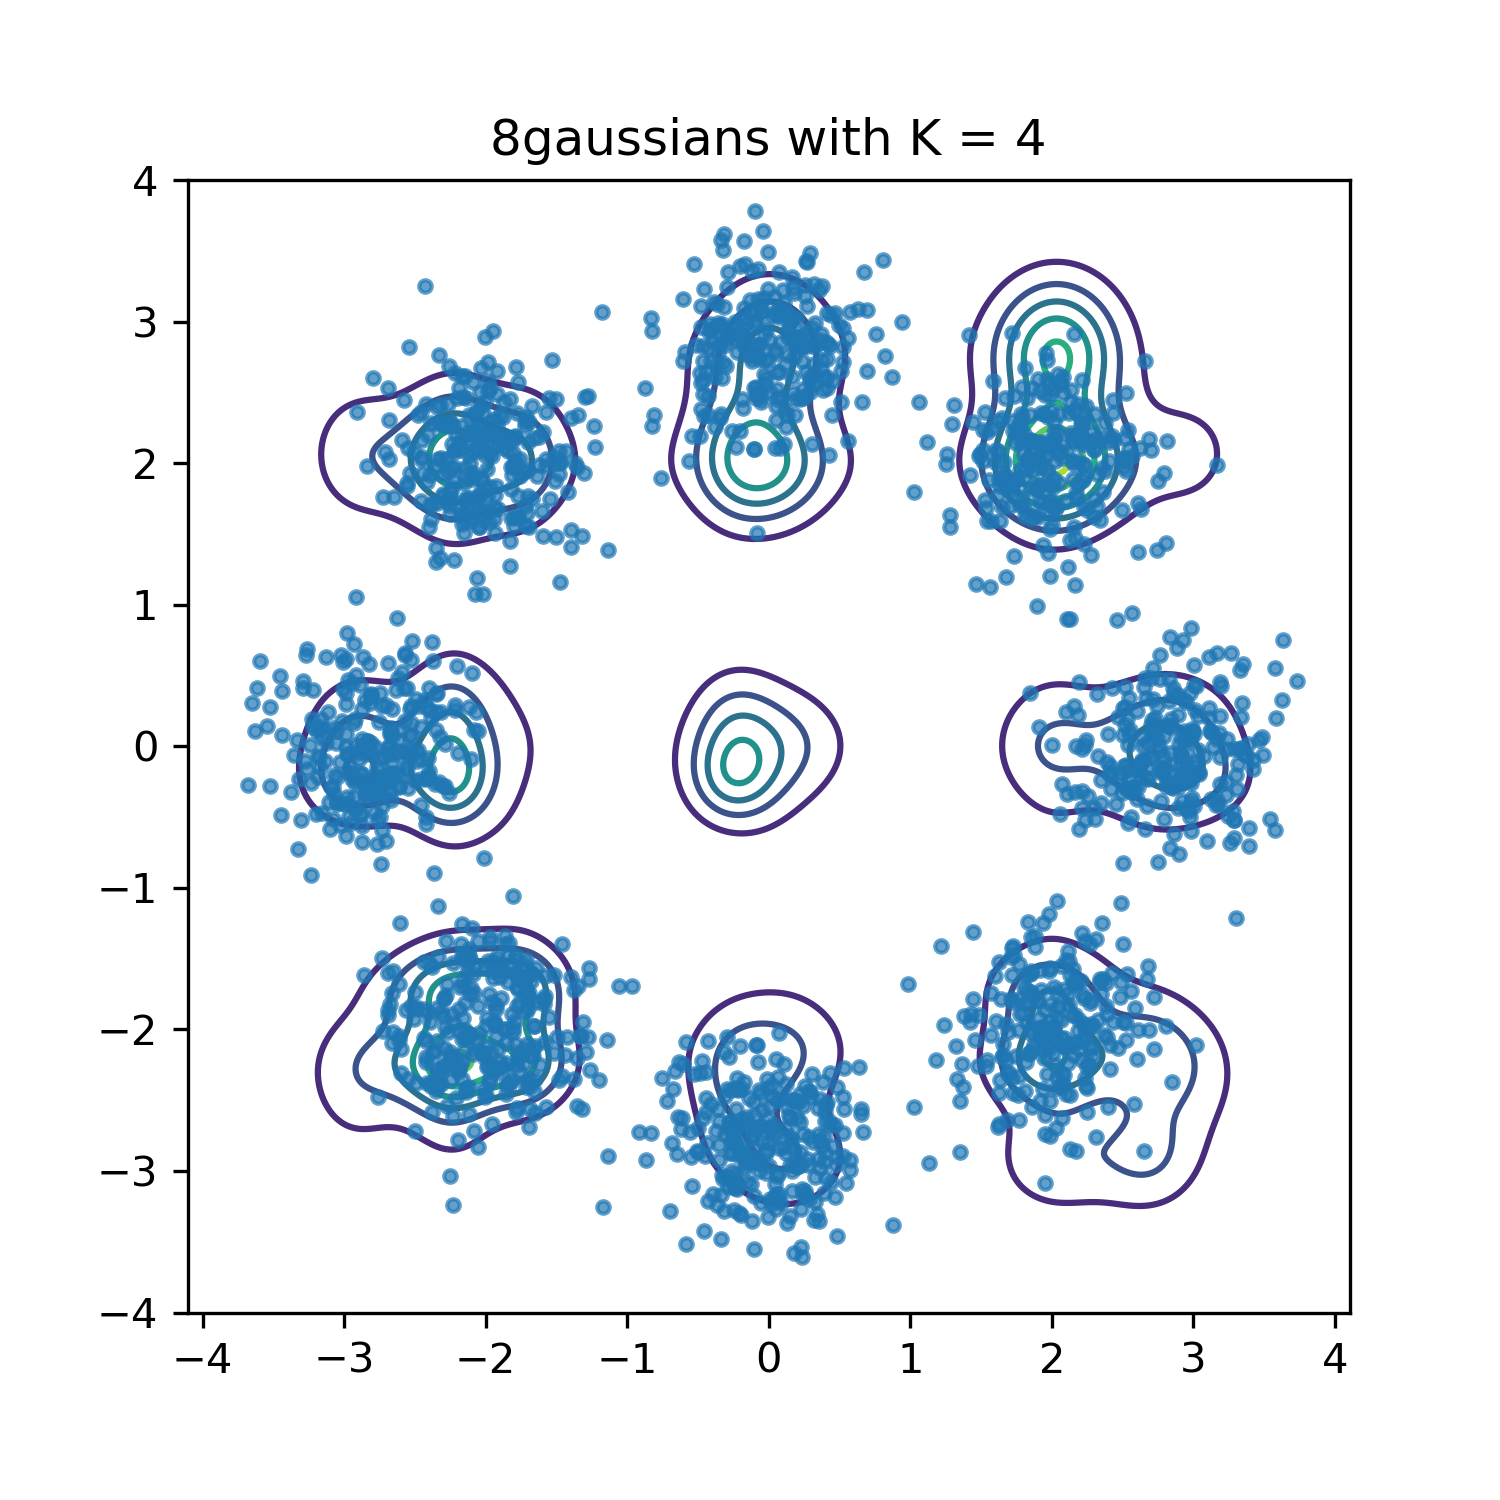
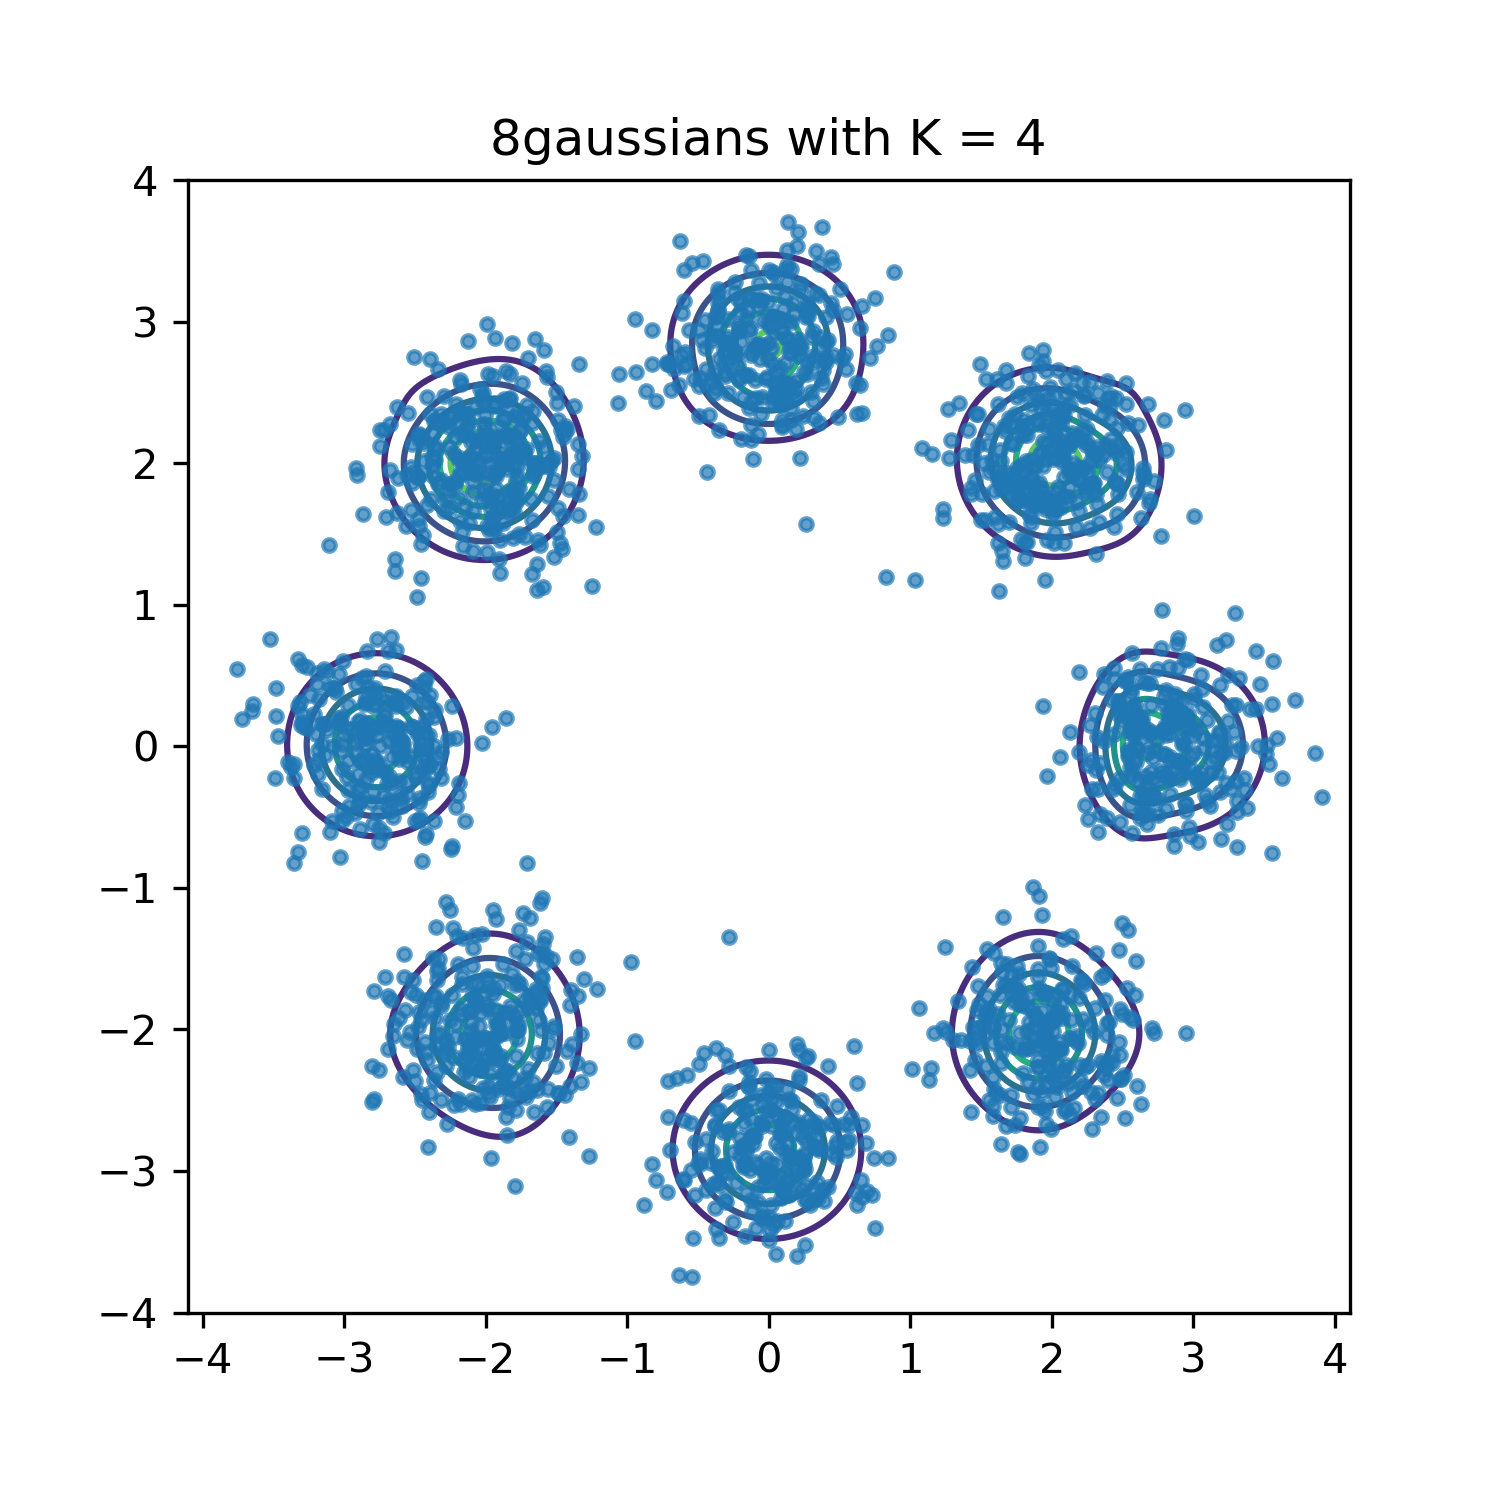
Updated figures

diff --git a/notebooks/CP_gmm.py b/notebooks/CP_gmm.py
@@ -1,129 +1,71 @@
-import sys, os
+import sys
 sys.path.append('../')
 import numpy as np
 import matplotlib.pyplot as plt
-import scipy
 import tensorflow as tf
 import tensorflow_probability as tfp
-from sklearn.cluster import KMeans
 import utils as utl
+import time
 tfd = tfp.distributions
 tfm = tf.math
 import data as d
+import models as m
+from tqdm import tqdm
 
-def create_cluster_distributions(means, covs, nc, nf, gpd):
-  clusters = []
-  for i in range(nc):
-    dim_mixtures = []
-    for j in range(nf):
-      components = []
-      for k in range(gpd):
-        components.append(
-          tfd.Normal(
-            means[k][i][j], 
-            np.sqrt(covs[k][i][j])
-          )
-        )
-      # Add components to the jth dimension mixture
-      dim_mixtures.append(
-        tfd.Mixture(
-          cat=tfd.Categorical(probs=[1/gpd]*gpd),
-          components=components,
-        )
-      )
-    clusters.append(tfd.Blockwise(dim_mixtures))
+#%% Set data parameters
+N = 2000
+data_names = d.fjjordDataNames()
+name = data_names[0]
 
-  return clusters
-
-#%%
-# Number of datapoints to generate
-N = 3000
-data = d.gen_checkerboard(batch_size=N)
-data = data.astype(np.float32)
-
+data = d.get_ffjordData(name,batch_size=N)
 
 # Inspect the data
 f,ax = plt.subplots(figsize=(5,5))
 ax.plot(data[:, 0], data[:, 1], '.')
 ax.axis('equal')
-ax.set_title(f'Data with {N} points')
+ax.set_title(name + f' with {N} points')
 plt.show()
 
+#%% Define model and training parameters
+K = 8 # Number of components
+model = m.CPGaussian(K,data.shape[1],data)
 
-# Set parameters
-N_CLUSTERS = 8              # Number of cluster
-GPD = 2                     # gauss per dimension in each cluster distribtuion 
-N_FEATURES = data.shape[1]  # the dimensions
+EPOCHS = 1000
+optimizer = tf.keras.optimizers.Adam(learning_rate=1e-3)
 
-#%% Initialize arrays
-# Use Kmeans to get initial guess of mu
-kmeans = KMeans(n_clusters=N_CLUSTERS).fit(data)
-mu_nd = kmeans.cluster_centers_
-
-# use same means for each gauss in same cluster
-mu = []
-for i in range(GPD):
-  mu.append(mu_nd)
-mu = np.array(mu)
-
-# Create cov matrix 
-covs_nd = np.full(
-    (N_CLUSTERS, N_FEATURES),
-    np.diag(
-        np.cov(data, rowvar=False)
-    )
-).astype(np.float32)
-
-# same as for means
-covs = []
-for i in range(GPD):
-  covs.append(covs_nd)
-covs = np.array(covs)
-
-#%% Training
-# Number of epochs to run the loop
-epochs = 25
-
-# training loop
-pi = 1/N_CLUSTERS * np.ones((N_CLUSTERS))
-for epoch in range(epochs):
-
-    clusters = create_cluster_distributions(mu, covs, N_CLUSTERS, N_FEATURES, GPD)
-
-    # total responsibility assigned to each cluster 
-    r = np.zeros((N, N_CLUSTERS))
-    for i in range(N_CLUSTERS):
-        r[:,i] = pi[i]*clusters[i].prob(data).numpy()
-    r = r / r.sum(axis=1,keepdims=1)  
-
-    # total responsibility assigned to each cluster
-    cluster_weights = r.sum(axis = 0)
-
-    # Update prior
-    pi = cluster_weights / N
-
-    # update means
-    weighted_sum = np.dot(r.T, data)
-    for k in range(GPD):
-      mu[k] = (weighted_sum / cluster_weights.reshape(-1, 1)).astype(np.float32)
-
-    # Compute covariances
-    for i in range(N_CLUSTERS):
-      for k in range(GPD):
-        diff = (data - mu[k][i]).T
-        weighted_sum = np.dot(r[:, i] * diff, diff.T)
-        covs[k][i] = np.diag(weighted_sum / cluster_weights[i])
+#%% Train model 
+# Fit the model
+losses = []
+start_time = time.time()
+for epoch in tqdm(range(EPOCHS),desc='Training TT'):
+    loss = model.train_step(data,optimizer)
+    losses.append(loss.numpy())
         
-#%% Plot results
+end_time = time.time()
+print(f'Training time elapsed: {int(end_time-start_time)} seconds')
+print(f'Final loss: {loss.numpy()}')
 
-utl.plot_contours(data, clusters, 4,'Final distribution', N_CLUSTERS)
-utl.plot_density(clusters, 4,'Density', N_CLUSTERS)
+f,ax = plt.subplots()
+ax.plot(range(len(losses)),np.array(losses))
+ax.set_title('Training loss')
+ax.set_xlabel('iteration')
+plt.show()
+
+#%% Plot result
+
+f,ax = plt.subplots(figsize=(5,5))
+utl.plot_contours(ax, data, model)
+ax.set_title(name+' with K = '+str(K))
+plt.show()
+# f.savefig('../figures/CP/'+name+'_K_'+str(K)+'_contour.png',dpi=300)
 
 
-# Check if clusters are correct densities
-integrands = np.zeros((N_CLUSTERS))
-for i in range(N_CLUSTERS): 
-    integrands[i] = utl.unitTest(clusters[0],limits=4)
+f,ax = plt.subplots(figsize=(5,5))
+utl.plot_density(ax, model)
+ax.set_title('Density of '+name+' with K = '+str(K))
+plt.show()
+# f.savefig('../figures/CP/'+name+'_K_'+str(K)+'_density.png',dpi=300)
 
-if all(1-integrands < 1e-2):
-    print('Densities are correct (their integral is 1)')
+integrand = utl.unitTest(model,limits=[-6,6])
+print(f'Density integrates to {round(integrand,4)}')
+print('It should be = 1.0')

diff --git a/models/CPGauss.py b/models/CPGauss.py
@@ -1,5 +1,7 @@
 import tensorflow as tf
 import tensorflow_probability as tfp
+from sklearn.cluster import KMeans
+import numpy as np
 tfd = tfp.distributions
 
 
@@ -13,19 +15,37 @@ class CPGaussian(tf.keras.Model):
     M : int > 0
     Amount of dimensions pr. component
     """
-    def __init__(self, K, M):
+    def __init__(self, K, M, data = None, seed = None):
         super(CPGaussian, self).__init__()
         self.K = K
         self.M = M
+        
+        if seed != None:
+            tf.random.set_seed(seed)
+        
         self.w_logits = tf.Variable([1.]*K, name="logits")
-        self.locs = [
+        
+        if np.all(data != None):
+            # Use Kmeans to get initial guess of mu
+            kmeans = KMeans(n_clusters=K).fit(data)
+            mu_kmeans = kmeans.cluster_centers_
+            self.locs = [
             [
                 tf.Variable(
-                    tf.random.uniform([],-4, 4), 
+                    mu_kmeans[i,j], 
                     name="mu_{},{}".format(i,j)
                 ) for j in range(self.M)
-            ] for i in range(self.K)
-        ]
+            ] for i in range(self.K)]
+        else:
+            self.locs = [
+                [
+                    tf.Variable(
+                        tf.random.uniform([],-4, 4), 
+                        name="mu_{},{}".format(i,j)
+                    ) for j in range(self.M)
+                ] for i in range(self.K)
+            ]
+            
         self.scales = [
             [
                 tf.Variable(

diff --git a/notebooks/TT_gmm_Rasmus.py b/notebooks/TT_gmm_Rasmus.py
@@ -29,10 +29,10 @@ plt.show()
 
 
 #%% Define model and training parameters
-K = 2 # Number of components
+K = 4 # Number of components
 model = m.TensorTrainGaussian2D(K)
 
-EPOCHS = 100
+EPOCHS = 6000
 optimizer = tf.keras.optimizers.Adam(learning_rate=1e-3)
 
 #%% Train model 
@@ -61,14 +61,14 @@ f,ax = plt.subplots(figsize=(5,5))
 utl.plot_contours(ax, data, model)
 ax.set_title(name+' with K = '+str(K))
 plt.show()
-# f.savefig('../figures/TensorTrain/'+name+'_K_'+str(K)+'_contour.png',dpi=300)
+f.savefig('../figures/TensorTrain/'+name+'_K_'+str(K)+'_contour.png',dpi=300)
 
 
 f,ax = plt.subplots(figsize=(5,5))
 utl.plot_density(ax, model)
 ax.set_title('Density of '+name+' with K = '+str(K))
 plt.show()
-# f.savefig('../figures/TensorTrain/'+name+'_K_'+str(K)+'_density.png',dpi=300)
+f.savefig('../figures/TensorTrain/'+name+'_K_'+str(K)+'_density.png',dpi=300)
 
 integrand = utl.unitTest(model,limits=[-6,6])
 print(f'Density integrates to {round(integrand,4)}')
